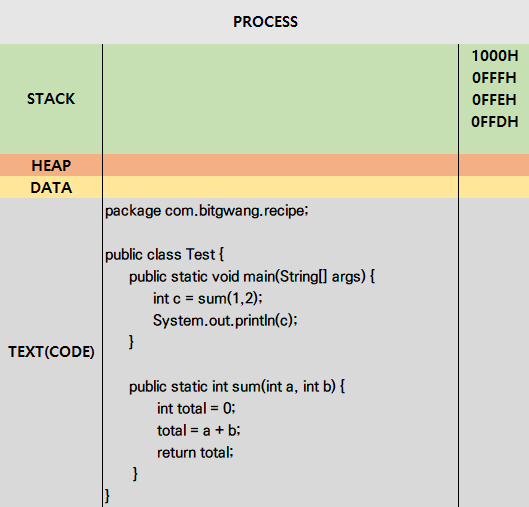
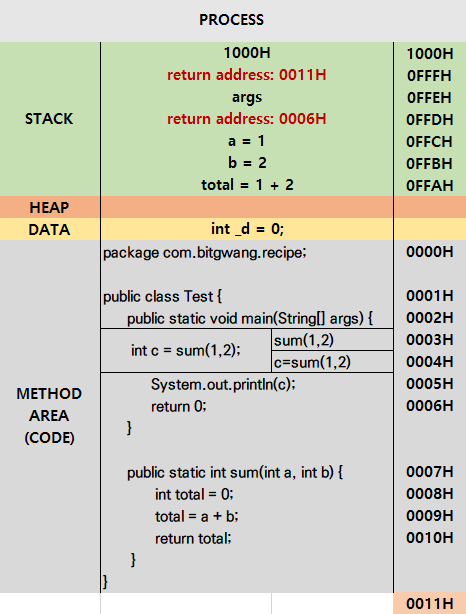
코드가 실행되는 원리 업데이트

diff --git a/OS/코드가 실행되는 원리.md b/OS/코드가 실행되는 원리.md
@@ -25,6 +25,31 @@ Method Aread(Code) 영역에 옮겨진다.
 > 자바는 코드 한줄 씩 인터프리터로 해석하기도 하였다가 호출 빈도가 높고나 특정 조건이 맞으면 한꺼번에 컴파일을 하여 프로그램을 실행하기도 한다고 하였지만 여기서는 전체 코드가 컴파일 되었다고 가정하자
 
 
+### 동작
+제일먼저 main 함수가 시작 되지만 그 전에 PC REGISTER에 Stack Pointer에 StackFrame에 최댓 값인 1000H가 먼저 초기화 되고 함수가 return 될 주소 0011H가 입력되게 된다.  그래야 함수가 종료되고 다음 위치로 이동하여 계속 코드를 실행하기 때문이다.  
+
+#### Program Counter
+이때 CODE영역에서는 코드가 한줄 실행 될때마다 해당 코드에 메모리 주소값이 Program Counter Register에 계속 값이 바뀐다.
+
+메소드가 실행되면 return address값이 stack에 입력되면 그다음 파라미터 값들이 차례데로 입력된다. 또한 메소드내 선언 된 지역변수 또한 다음 stack에 쌓이게 된다.
+
+#### Stack Pointer
+이때 stack에 쌓이면 Program Counter와 같이 Stack Pointer 라는게 존재하는데 마찬가지로 Stack 채워질때 마다 해당 주소가 계속 바뀐다고 생각하면된다.  
+
+code영역에 보이는 바와 같이 함수안에 함수가 선언되면 마찬가지로 제일 먼저 return address가 stack에 입력되고 코드데로 처리가 된다.
+
+#### EBP
+이때 EBP라는 Register가 있는데 하는 역활은 함수내 함수 호출이 계속 이루어지다가 만약 오류가 발생 했을 때 어디서 오류가 발생했는지 빠르게 함수를 트래킹 하기 위해 존재하는 레지스터 이다.  Stack Pointer에 바로 다음 주소 값을 가리킨다고 생각하면 된다.
+
+#### EAX 
+함수에 대한 return 값을 보관하고 있는 레지스터 이다. return total 하면 total값은 3이기 때문에 3이 EAX 레지스터에 들어가게 된다.
+
+return이 되고 나면 함수를 빠져 나온것이기 때문에 0FFAH부터 차근차근 위로 올라가 Stack이 비워지게 되며 main함수까지 다 끝나면 stack frame은 비워지게 된다.
+
+
+## 마치며
+강의를 여러번 듣고 겨우 큰 그림은 이해한거 같다.  
+로우레벨단위를 단시간 안에 내것으로 만들긴 힘들겠지만 지속적으로 기반지식이 쌓여 이해한 내용을 여기에 계속 업데이트하여 확실한 지식을 만들어 놓자
 
 
 
